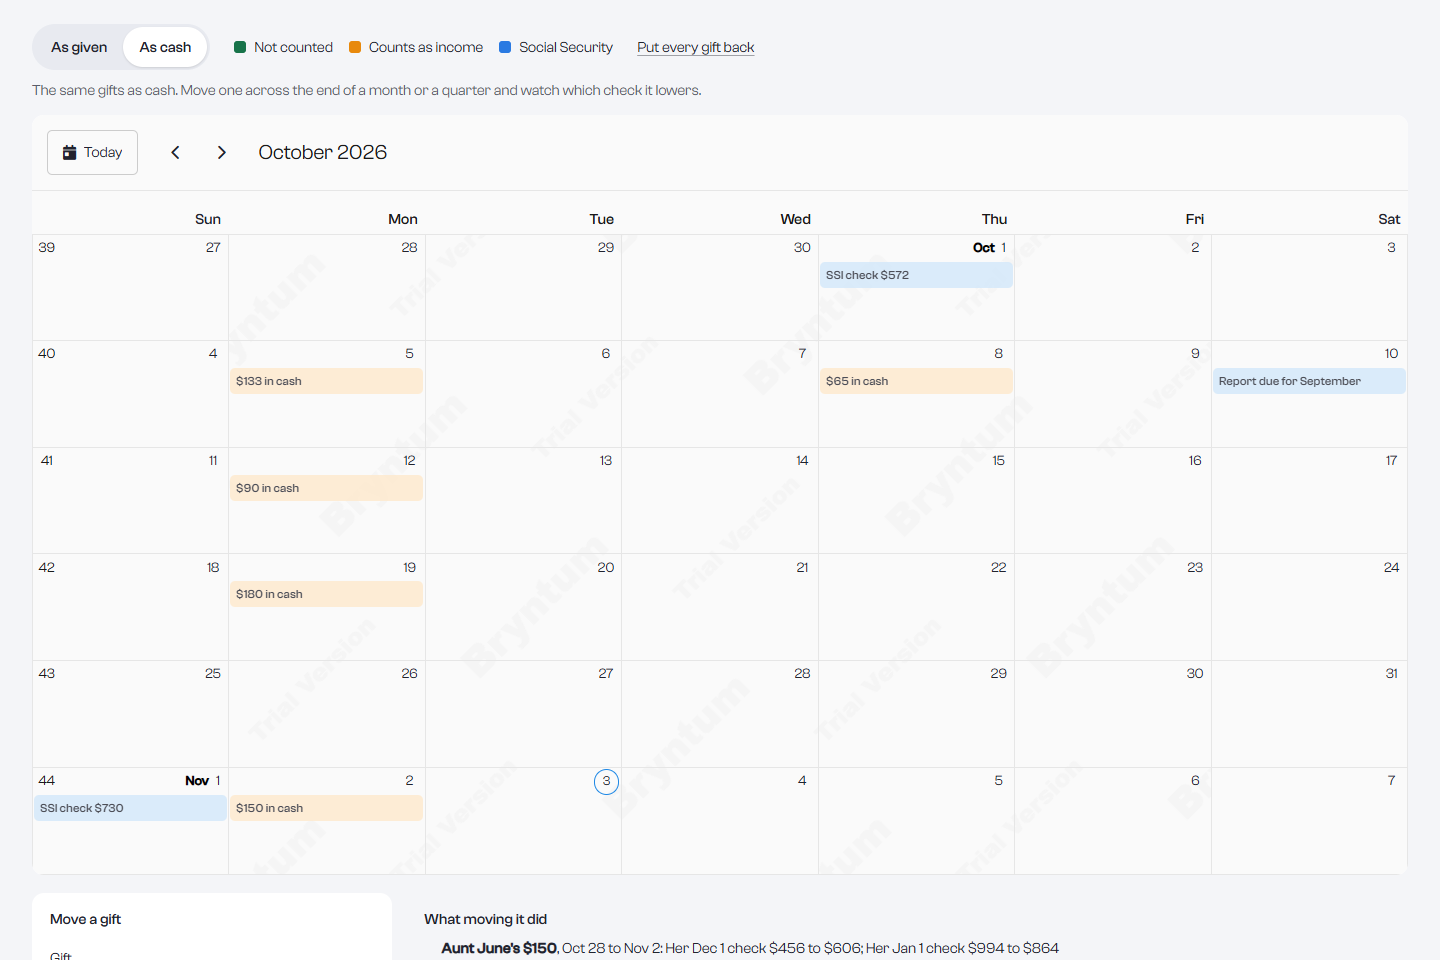
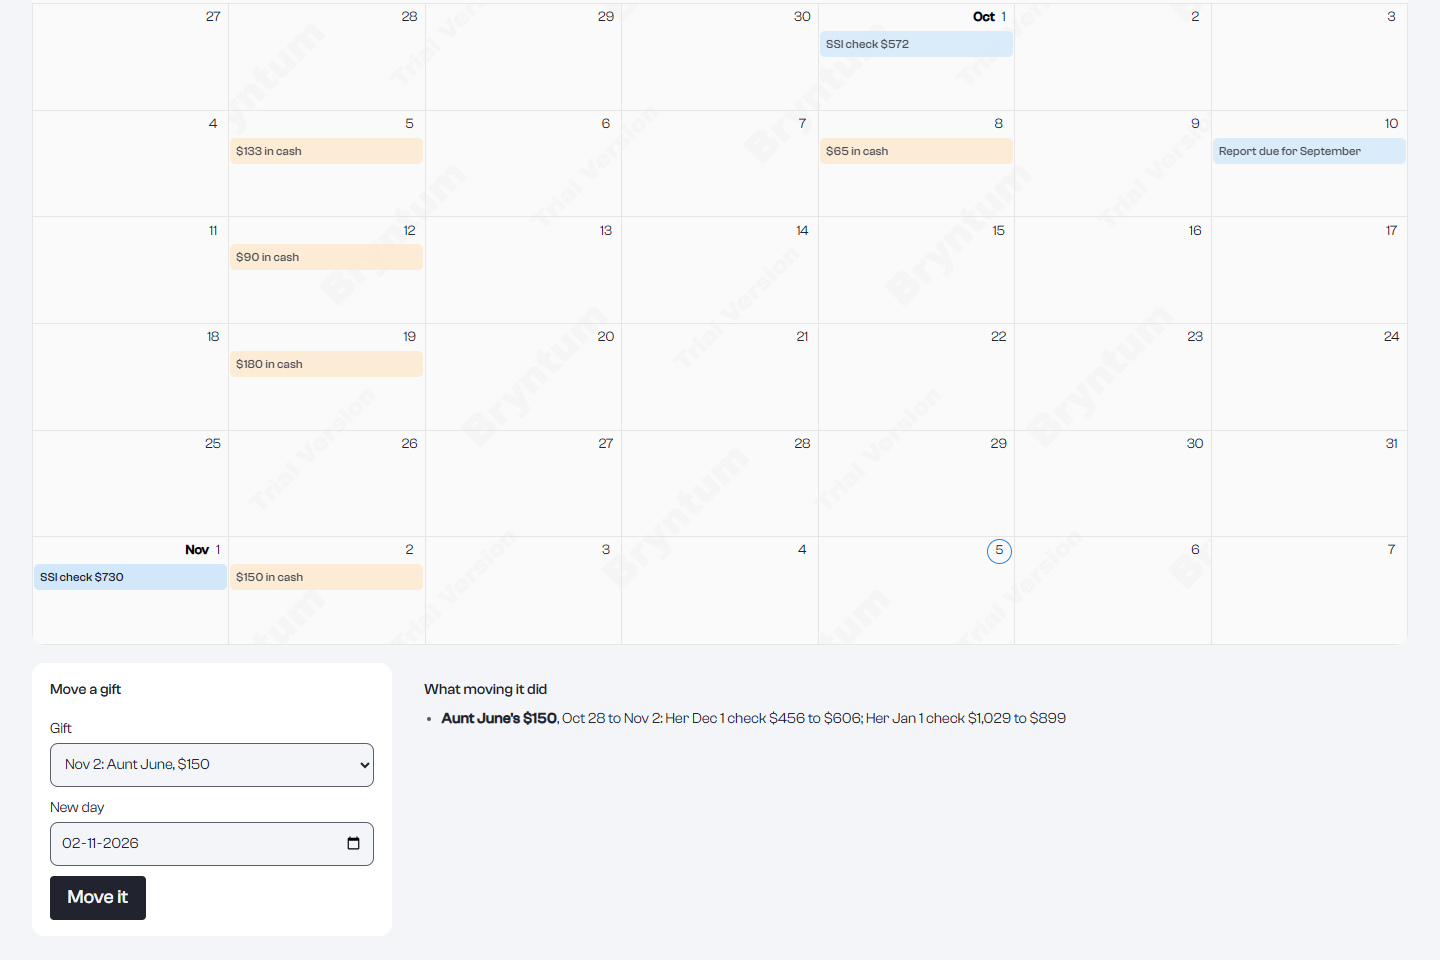
README and TESTING match the current build, with new screenshots
- README: the less-scrolling design, the Easy Read rules it now follows, the dashboard's
  route colors and phone list, the calendar's phone list, the organizations preview
  before Send, the docs' example requests and responses, the organizer's checks, and the
  unit test scope; the Design line no longer claims an Info button on every element.
- TESTING: Display (was View), Preview where each dollar goes (was Show the routing),
  the January check at the 2027 amount ($1,029), the checks list on /judges, US spelling.
- The eight README screenshots retaken from the hosted site on the new design.

diff --git a/README.md b/README.md
@@ -67,6 +67,7 @@ Each page follows published research for its readers, and a design review with t
 - **Givers on a phone.** The total and who gets paid sit right beside the PayPal button, amounts can be typed the way people write them ("$50", "1,000"), and suggested amounts match real needs ([Baymard checkout research](https://baymard.com/research-articles/perceived-security-of-payment-form)). After paying, the page names each shop, the amount, the PayPal order and what happens next ([GOV.UK confirmation pages](https://design-system.service.gov.uk/patterns/confirmation-pages/)).
 - **People on SSI.** The result comes first in words ("It stays $1,029 with Giftwise."), before any arithmetic ([W3C, Making Content Usable for People with Cognitive and Learning Disabilities](https://www.w3.org/TR/coga-usable/)). The Easy Read report keeps one idea per line with a picture, no colons or brackets, and 14 point print ([NHS England accessible information guide](https://www.england.nhs.uk/wp-content/uploads/2018/06/LearningDisabilityAccessCommsGuidance.pdf)).
 - **Everyone.** Every control is at least 44 pixels on touch screens, Large text reaches every part of every page, light and dark themes are one tap away in the Display menu, and nothing moves on its own for long ([WCAG 2.2](https://www.w3.org/TR/WCAG22/)).
+- **Less scrolling.** Long pages show each section's result and key figures first, with the full table, list or transcript one press away, and every link to a section opens it. The judges' page went from 18 screens to 8 on a laptop, the API docs from 19 to 4, with every figure, case and source still on the page.
 
 ## What is inside
 
@@ -87,21 +88,21 @@ Each page follows published research for its readers, and a design review with t
 - **Share a gift page:** each gift page has its own share image (needs, who is paid, and the check that stays whole), a share button that opens the phone's share sheet, and a QR code to print.
 - **Found by AI agents on their own:** an MCP Server Card at [`/api/mcp/server-card`](https://giftwise-405i.onrender.com/api/mcp/server-card) and an AI Catalog at [`/.well-known/ai-catalog.json`](https://giftwise-405i.onrender.com/.well-known/ai-catalog.json), the discovery format MCP adopted in SEP-2127, plus [`/llms.txt`](https://giftwise-405i.onrender.com/llms.txt).
 - **A guided tour for judges:** **Take the guided tour** on `/judges` walks the five-minute path in one tab, eight stops, each with the thing to look at ringed.
-- **The organizer's side, with no account:** each page gets a private manage link, shown once and stored only as a SHA-256. From [`/manage/…`](https://giftwise-405i.onrender.com/manage/maya-sample-organizer) (the sample's is public) a family adds, edits or removes needs while Giftwise picks each route (housing always goes to the ABLE account), sees gifts as PayPal completes them, shares the page, closes and reopens it, and connects notifications.
+- **The organizer's side, with no account:** each page gets a private manage link, shown once and stored only as a SHA-256. From [`/manage/…`](https://giftwise-405i.onrender.com/manage/maya-sample-organizer) (the sample's is public) a family adds, edits or removes needs while Giftwise picks each route (housing always goes to the ABLE account), sees gifts as PayPal completes them, shares the page, closes and reopens it, and connects notifications. Amounts are checked as they are typed, and leaving with unsaved changes asks first.
 - **Told the moment a gift lands (Zapier):** each PayPal capture posts a signed `gift.received` event (HMAC-SHA256 with a timestamp) to the organizer's webhook, such as a Zapier Catch Hook that becomes a text, an email or a spreadsheet row. Private network addresses are refused. `npm run e2e:manage` runs a real sandbox capture and checks the signed event arrives.
 - **A benefit-safe gift finder (Channel3):** in the organizer's view, search real products across retailers; Giftwise runs every result through the rules before it can go on the page. An item paid straight to the retailer keeps the check whole; a gift card is held back, because SSA counts one that can buy food or shelter like cash. One click adds the product as a need paid to that retailer, with its link for givers. Assistants get the same search as the `find_gift` MCP tool. Without a key, a sample catalog on `.example` domains stands in.
 - **Ask the rulebook (Elasticsearch):** on `/learn`, a question in plain words goes through three steps. Elasticsearch hybrid retrieval (keyword plus semantic on `jina-embeddings-v3`, fused by reciprocal rank, then reranked by `jina-reranker-v3`) over the regulations, SSA's manual, its worked examples and the rule table; Claude answers from only those passages; a program checks every quote word for word. `POST /api/v1/ask-rules` and the `ask_rulebook` MCP tool. Without Elastic, an in-app BM25 ranking stands in.
 - **A planner that moves the cash itself (Bryntum):** when relatives give cash anyway, the calendar's planner moves each cash gift by up to a week so more of it falls under SSI's $20 monthly and $60 quarterly exclusions, never into a month with no check (that can affect Medicaid). It moves the events on the Bryntum calendar one by one and sets the result against paying the shop: on the sample year as cash, two moves keep $281 more; paying the shop keeps $2,486 more than the best cash schedule.
 - **Background jobs on Render Workflows:** besides the nightly checks, `monthlyRun` fans out one task per active monthly gift on the 1st so each giver's page is ready, and `rulebookIndex` rebuilds the Elastic index weekly.
 - **A Postman collection:** [`postman/`](postman/) holds the API as 16 requests with tests, also downloadable from `/developers/docs`; `npm run test:postman` runs it with Newman.
-- **Her own copy, in Easy Read and Spanish:** the person on SSI is the one who must report, so `/g/maya/report/easy` writes the same report to her: the answer first, then one idea per line with a picture beside each, what to do, and what to say on the call, in English or Spanish (`?lang=es`). It follows the Autistic Self Advocacy Network's Easy Read guide, [One Idea Per Line](https://autisticadvocacy.org/wp-content/uploads/2021/07/One-Idea-Per-Line.pdf); every sentence comes from the same rules output as the full report, no model writes or translates it, and a test holds every sentence to 15 words or fewer in both languages. **Listen** reads it aloud in either language with the browser's own voice, and **Remind me by the 10th** downloads a calendar file with the due date and a monthly look on the 5th. About 851,000 people on SSI under 65 have an intellectual disability ([SSA, December 2024](https://www.ssa.gov/policy/docs/statcomps/ssi_asr/2024/sect06.html)).
+- **Her own copy, in Easy Read and Spanish:** the person on SSI is the one who must report, so `/g/maya/report/easy` writes the same report to her: the answer first, then one idea per line with a picture beside each, what to do, and what to say on the call, in English or Spanish (`?lang=es`). It follows the Autistic Self Advocacy Network's Easy Read guide, [One Idea Per Line](https://autisticadvocacy.org/wp-content/uploads/2021/07/One-Idea-Per-Line.pdf), and NHS England's rules for accessible information: one idea per line, no colons, semicolons or brackets, 14 point print, and a plain line that says what an ABLE account is. Every sentence comes from the same rules output as the full report, no model writes or translates it, and tests hold every sentence, every month and both languages to those rules and to 15 words or fewer. **Listen** reads it aloud in either language with the browser's own voice, and **Remind me by the 10th** downloads a calendar file with the due date and a monthly look on the 5th. About 851,000 people on SSI under 65 have an intellectual disability ([SSA, December 2024](https://www.ssa.gov/policy/docs/statcomps/ssi_asr/2024/sect06.html)).
 - **For AI agents:** an MCP server at `/api/mcp` with nine tools. An assistant can check a gift, ask the rulebook, find a benefit-safe gift, read a gift page, plan a gift, ask the two reviewers, write the month's report to Social Security (also in Easy Read or Spanish for the person), set up a monthly gift, and start a PayPal checkout that only the giver can approve; Giftwise captures when PayPal sends the giver back. `/agents` shows a Claude assistant doing exactly that, and runs it live. After it starts the checkout, the assistant reads the order from PayPal itself: it asks PayPal's own MCP server (`get_order`) and reads PayPal's Orders API when that server cannot run the call, so the giver hears PayPal's record, not only Giftwise's. Add Giftwise to Claude, Claude Code, Cursor or VS Code from `/agents`; [`server.json`](server.json) describes it for the MCP Registry.
-- **Her benefit calendar, in Bryntum:** `/g/maya/calendar` puts every gift on the day it arrived, each report to Social Security on the 10th, and each check on the 1st, in light and dark. SSI counts income by calendar month and gives the $60 exclusion once a quarter, so the day matters: press **As cash**, drag Aunt June's $150 from October 28 to November 2, and the calendar shows her December check rising from $456 to $606 while January's drops from $1,029 to $899. A form does the same move without dragging.
-- **Maya's year, in AG Studio:** `/dashboard` shows every gift and her check each month with Giftwise and as cash, themed from the site tokens in light and dark. A custom Giftwise widget runs the rules engine on whatever the filters leave in view. In edit mode, AG Studio's own agents run on Claude through our adapter (AG Studio ships none for Claude), and can call the rules engine to answer what-if questions such as "what if that rent help had been cash?"
-- **For organizations:** `/organizations` lets a fund that already holds money for families (a disability foundation, a mutual-aid fund, a church) pay many households' needs in one PayPal Payouts batch. The rules engine routes each grant, every item goes straight to the shop or the ABLE account, and Transaction Search confirms each payout in PayPal's own report.
-- **Developer API:** free sandbox keys stored only as hashes, rate limits, OpenAPI 3.1 at `/openapi.json`, docs and a live playground at `/developers`.
+- **Her benefit calendar, in Bryntum:** `/g/maya/calendar` puts every gift on the day it arrived, each report to Social Security on the 10th, and each check on the 1st, in light and dark. SSI counts income by calendar month and gives the $60 exclusion once a quarter, so the day matters: press **As cash**, drag Aunt June's $150 from October 28 to November 2, and the calendar shows her December check rising from $456 to $606 while January's drops from $1,029 to $899. A form does the same move without dragging, and on a phone the month shows as a list, one gift per row.
+- **Maya's year, in AG Studio:** `/dashboard` shows every gift and her check each month with Giftwise and as cash, themed from the site tokens in light and dark. A custom Giftwise widget runs the rules engine on whatever the filters leave in view, and a second one shows how the money reached her, in the same colors as the rest of the site (green to a shop, blue to ABLE, orange only for cash). On a phone the year shows as a short list with links to the report and the calendar. In edit mode, AG Studio's own agents run on Claude through our adapter (AG Studio ships none for Claude), and can call the rules engine to answer what-if questions such as "what if that rent help had been cash?"
+- **For organizations:** `/organizations` lets a fund that already holds money for families (a disability foundation, a mutual-aid fund, a church) pay many households' needs in one PayPal Payouts batch. The rules engine routes each grant, **Preview where each dollar goes** shows the split before anything can be sent, every item goes straight to the shop or the ABLE account, and Transaction Search confirms each payout in PayPal's own report.
+- **Developer API:** free sandbox keys stored only as hashes, rate limits, OpenAPI 3.1 at `/openapi.json`, a live playground at `/developers`, and docs at `/developers/docs` with every field described and an example request and response for each endpoint (computed from the real handlers, or recorded from the live API).
 - **The rules engine as a package:** [`packages/ssi-gift-rules`](packages/ssi-gift-rules) builds the same engine into a dependency-free npm package with ESM, CommonJS and types, and its test checks the build gives the same answer as the published results on every SSA worked example.
-- **Design:** light and dark themes, phone and desktop, an Info button on every element, and WCAG 2.2 AA checked with axe.
+- **Design:** light by default with dark and system themes, phone and desktop, Plain and Technical explanations, Info buttons beside each rule and decision (in Spanish on the Spanish pages), and WCAG 2.2 AA checked with axe on 108 page views.
 
 Built with Next.js 16, React 19, TypeScript, Postgres 17, Drizzle, AG Studio 3.0, Bryntum Calendar 7.3, Channel3, Elasticsearch, Postman and Zapier webhooks, hosted on Render with Render Workflows.
 
@@ -127,7 +128,7 @@ Every push runs [CI](.github/workflows/ci.yml): `npm audit` at every severity (0
 
 | Suite | Command | Result |
 |---|---|---|
-| Rules engine, routing, monthly gifts, the SSA report and its Easy Read version, the checks workflow, the cited answers, the report code, the Spanish rule sentences, manage links and signatures, the gift finder, the rulebook search, the calendar planner and 1,000 random gifts, and the AI fallbacks | `npm test` | 158 of 158 |
+| Rules engine, routing, monthly gifts, the SSA report and its Easy Read version, the checks workflow, the cited answers, the report code, the Spanish rule sentences, manage links and signatures, the gift finder, the rulebook search, the calendar planner, 1,000 random gifts, the AI fallbacks, the amounts givers type ("$50", "1,000"), and the docs examples checked against the real handlers | `npm test` | 158 of 158 |
 | Social Security's own worked examples (rules engine, and Claude alone as the baseline) | `npm run eval:ssa` | 40 of 40 (Claude alone 32 of 40) |
 | Real SSI cases from federal courts | `npx tsx scripts/run-field-cases.ts` | 14 of 14 |
 | 59 labeled bills: wrong routes accepted (referee; Claude with no rulebook) | `npx tsx --env-file=.env.local scripts/run-eval.ts` | 0 (3) |

diff --git a/TESTING.md b/TESTING.md
@@ -31,13 +31,13 @@ Use this login in the PayPal window that opens when you press a PayPal button on
    | Northside Physical Therapy | Therapy co-pay | $90 |
    | Maya's ABLE account | Savings for later | $203 |
 
-   Her SSI check stays $994 this way. The same $1,500 given as cash would bring it to $0.
+   Her January check (set by gifts in November) stays $1,029 this way, the 2027 amount. The same $1,500 given as cash would bring it to $0.
 3. Press the PayPal button under the preview. In the PayPal window, log in with the sandbox login above and press **Complete Purchase**. PayPal asks for no shipping address, because nothing is shipped to you.
 4. The box thanks you and lists all five payments. The need cards update to **Paid by John**, and **Still needed** drops to $0.
 5. Press **See the receipt**. It lists every payee with its PayPal capture ID, the rules that applied, and their sources.
 6. On the receipt, press **Check with PayPal now** to ask PayPal for the order live, then **Verify the ledger** to recompute the audit trail's hash chain.
 
-To pay for a single need instead, press **Pay with PayPal** on its card. You can reset the sample page at any time; PayPal keeps its own sandbox records.
+To pay for a single need instead, press the PayPal button on its card. You can reset the sample page at any time; PayPal keeps its own sandbox records.
 
 ### Who receives the money
 
@@ -53,7 +53,7 @@ Each payment in the order names its own payee, and PayPal captures each one sepa
 On `/judges`, **Checked every night, from outside** shows the latest run of the `giftwise-checks` Render Workflow: 24 checks, each its own task, run in parallel with retries. That covers the eight failure cases against the PayPal sandbox, every page on the five-minute path, and six public API promises (status, ledger, the SSA report, the MCP tools, the OpenAPI address and PayPal's return link).
 
 1. Press **Run the checks now**. The page starts a task run on Render Workflows and names it.
-2. In about a minute the run files its results and the panel refreshes with the new time and count. Set **View** to Technical to see what each check found.
+2. In about a minute the run files its results and the panel refreshes with the new time and count. Open **All 24 checks, with each result**, or set **Display** to Technical to see what each check found.
 3. `/status` shows the same run under **Outside checks**.
 
 A run can start every 10 minutes. The nightly run starts from a Render cron job at 09:00 UTC.
@@ -93,21 +93,21 @@ Open `/g/maya/calendar`. Gifts are green when they do not count and orange when 
 3. Press **Edit the dashboard** to move widgets, change fields, or add another Giftwise check from the widget menu.
 4. In edit mode, open **AI Assistant** and choose **What if it were cash?**. AG Studio's agents, running on Claude, call the Giftwise rules engine and answer with the check figure and the rules behind it. **Add a chart by giver** builds a new widget.
 
-Without an AG Studio licence key the dashboard shows AG Studio's trial watermark; add `NEXT_PUBLIC_AG_STUDIO_LICENSE_KEY` to remove it.
+Without an AG Studio license key the dashboard shows AG Studio's trial watermark; add `NEXT_PUBLIC_AG_STUDIO_LICENSE_KEY` to remove it.
 
 ## Maya's report to Social Security
 
 1. Open `/g/maya/report`. It opens on the month whose report is due next, with the deadline (10 days after the month ends).
 2. The verdict for the gifts as given: nothing counts as income. Each gift is listed with the rule that says why, a link to the regulation or SSA manual section, and its PayPal capture or payout as proof. Gifts from the fictional sample year say they have no PayPal record; gifts you pay on Maya's page appear with their PayPal capture id and a link to the receipt.
 3. Press **As cash**. The same month becomes the report Maya would have had to file: every gift to tell SSA about, what counts, her lower check two months later, and a call script.
-4. **Print or save as PDF** keeps just the report; **Download CSV** gives the same lines as a spreadsheet. Set **View** to Technical to see the rule ids.
+4. **Print or save as PDF** keeps just the report; **Download CSV** gives the same lines as a spreadsheet. Set **Display** to Technical to see the rule ids.
 
 The same report is at `GET /api/v1/ssa-report?page=maya&month=2026-10` and as the MCP tool `get_ssa_report`.
 
 ## For organizations: one payout batch
 
 1. Open `/organizations`. The sample fund's balance comes live from PayPal's Balances API.
-2. Enter a grant for Maya, for example `150`, and press **Show the routing**. Giftwise splits it across her open needs and her ABLE account, and shows her check with the grant and as cash.
+2. Enter a grant for Maya, for example `150`, and press **Preview where each dollar goes**. Giftwise splits it across her open needs and her ABLE account, and shows her check with the grant and as cash. **Send** stays off until the preview matches the grants.
 3. Press **Send**. One PayPal Payouts batch pays each shop and her ABLE account directly. The page follows the batch until PayPal reports every item paid, with its PayPal transaction id.
 4. Each paid item is then looked up in PayPal's Transaction Search report. In the sandbox a new transaction can take up to three hours to appear there, so it reads "Waiting for PayPal's report" until then.
 
